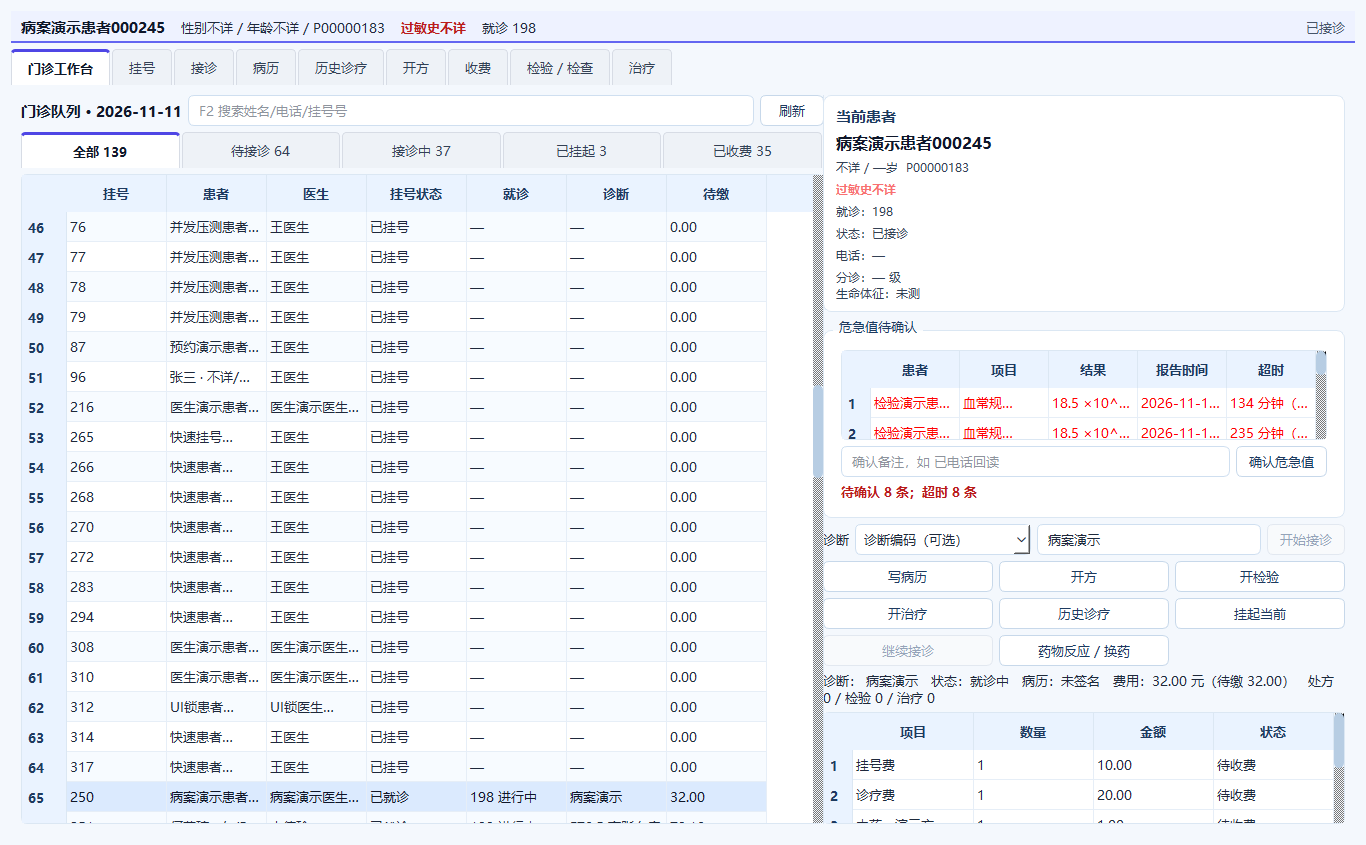
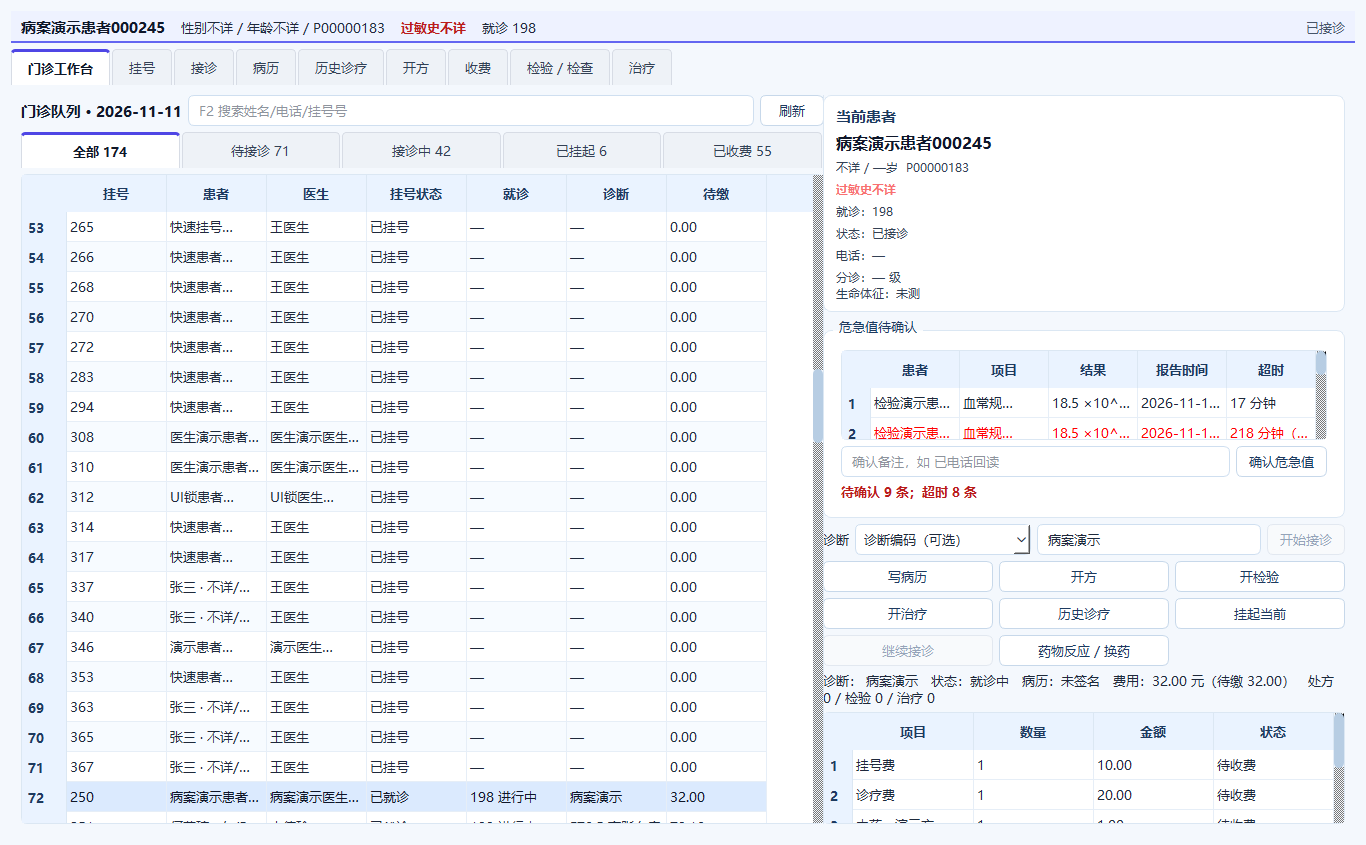
fix: 浅色原生控件与标题栏 v0.84.1

diff --git a/his_client/ui/theme.py b/his_client/ui/theme.py
@@ -1,4 +1,5 @@
 """统一现代化浅色工作站样式（白/浅蓝）。"""
+from PySide6.QtGui import QColor, QPalette
 MODERN_QSS = """
 QWidget { color: #1e293b; font-family: "Microsoft YaHei"; font-size: 13px; }
 QWidget#workstationRoot { background: #f4f8fd; }
@@ -66,10 +67,34 @@ QTabWidget::pane { border: 1px solid #dbe7f3; background: #ffffff; }
 QStatusBar { color: #64748b; }
 QToolTip { background: #ffffff; color: #1e293b; border: 1px solid #cfdff0; }
 QCheckBox { color: #1e293b; }
+QCheckBox::indicator, QRadioButton::indicator {
+    width: 14px; height: 14px;
+    border: 1px solid #b7cde3;
+    border-radius: 3px;
+    background: #ffffff;
+}
+QCheckBox::indicator:checked, QRadioButton::indicator:checked {
+    background: #2563eb;
+    border: 1px solid #2563eb;
+}
 QTextEdit { background: #ffffff; border: 1px solid #cfdff0; border-radius: 6px; color: #1e293b; }
 """
 
 
 def apply_theme(widget) -> None:
     widget.setObjectName("workstationRoot")
+    palette = widget.palette()
+    palette.setColor(QPalette.Window, QColor("#f4f8fd"))
+    palette.setColor(QPalette.WindowText, QColor("#1e293b"))
+    palette.setColor(QPalette.Base, QColor("#ffffff"))
+    palette.setColor(QPalette.AlternateBase, QColor("#f7fbff"))
+    palette.setColor(QPalette.Text, QColor("#1e293b"))
+    palette.setColor(QPalette.Button, QColor("#ffffff"))
+    palette.setColor(QPalette.ButtonText, QColor("#1e3a5f"))
+    palette.setColor(QPalette.Highlight, QColor("#dbeafe"))
+    palette.setColor(QPalette.HighlightedText, QColor("#0f172a"))
+    palette.setColor(QPalette.ToolTipBase, QColor("#ffffff"))
+    palette.setColor(QPalette.ToolTipText, QColor("#1e293b"))
+    palette.setColor(QPalette.PlaceholderText, QColor("#94a3b8"))
+    widget.setPalette(palette)
     widget.setStyleSheet(MODERN_QSS)

diff --git a/app/version.py b/app/version.py
@@ -1,6 +1,6 @@
 """版本信息：服务端与客户端共用（客户端打包时读取）。"""
 APP_NAME = "HIS 门诊部系统"
-APP_VERSION = "0.84.0"
+APP_VERSION = "0.84.1"
 API_VERSION = "v1"
 # 低于该版本的客户端提示升级
-CLIENT_MIN_VERSION = "0.84.0"
+CLIENT_MIN_VERSION = "0.84.1"

diff --git a/his_client/__init__.py b/his_client/__init__.py
@@ -5,6 +5,6 @@
 - api：REST API 封装
 - ui：登录对话框、主窗口、收费员工作站
 """
-CLIENT_VERSION = "0.84.0"
+CLIENT_VERSION = "0.84.1"
 
 __all__ = ["CLIENT_VERSION"]
